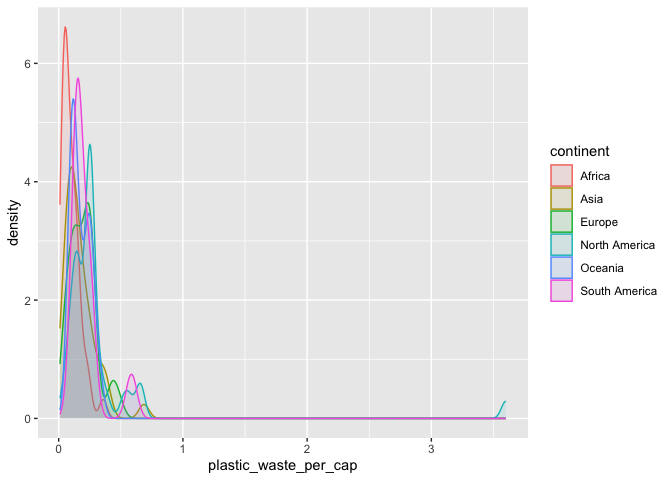
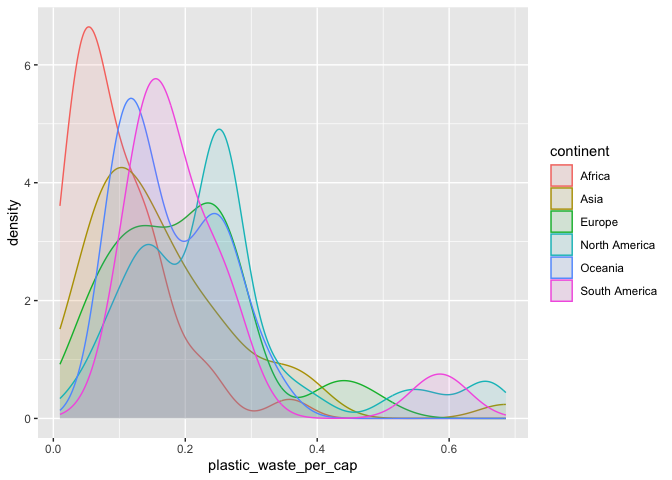
Redid up through Q2
took out outlier for North America.

diff --git a/lab-02.md b/lab-02.md
@@ -23,31 +23,19 @@ capita faceted by continent.
 Second plot is the same data as a density plot.
 
 ``` r
-ggplot(data = plastic_waste, aes(x = plastic_waste_per_cap)) +
+true_plastic <- plastic_waste %>%
+  filter(plastic_waste_per_cap < 3)
+
+ggplot(data = true_plastic, aes(x = plastic_waste_per_cap)) +
   #To make them one graph by color, add in fill = continent after plastice_waste_per_cap
   geom_histogram(binwidth = 0.2) + facet_wrap(~continent)
 ```
 
-    ## Warning: Removed 51 rows containing non-finite outside the scale range
-    ## (`stat_bin()`).
-
 ![](lab-02_files/figure-gfm/plastic-waste-continent-1.png)<!-- -->
 
 ``` r
-plastic_waste %>%
-  filter(plastic_waste_per_cap > 3.5)
-```
-
-    ##   code              entity     continent year gdp_per_cap plastic_waste_per_cap
-    ## 1  TTO Trinidad and Tobago North America 2010    31260.91                   3.6
-    ##   mismanaged_plastic_waste_per_cap mismanaged_plastic_waste coastal_pop
-    ## 1                             0.19                    94066     1358433
-    ##   total_pop
-    ## 1   1341465
-
-``` r
 ggplot(
-  data = plastic_waste,
+  data = true_plastic,
   mapping = aes(
     x = plastic_waste_per_cap,
     color = continent,
@@ -56,9 +44,6 @@ ggplot(
 ) +
   geom_density(alpha = 0.7)
 ```
-
-    ## Warning: Removed 51 rows containing non-finite outside the scale range
-    ## (`stat_density()`).
 
 ![](lab-02_files/figure-gfm/plastic-waste-continent-2.png)<!-- --> What
 I can tell is that they all look pretty similar in terms of plastic
@@ -69,7 +54,7 @@ graph all look the same.
 
 ``` r
 ggplot(
-  data = plastic_waste,
+  data = true_plastic,
   mapping = aes(
     x = plastic_waste_per_cap,
     color = continent,
@@ -79,15 +64,12 @@ ggplot(
   geom_density(alpha = 0.1)
 ```
 
-    ## Warning: Removed 51 rows containing non-finite outside the scale range
-    ## (`stat_density()`).
-
 ![](lab-02_files/figure-gfm/plastic-waste-density-1.png)<!-- -->
 
 ``` r
 #plot side by side
 ggplot(
-  data = plastic_waste,
+  data = true_plastic,
   mapping = aes(
     x = continent,
     y = plastic_waste_per_cap
@@ -95,9 +77,6 @@ ggplot(
 ) +
   geom_boxplot()
 ```
-
-    ## Warning: Removed 51 rows containing non-finite outside the scale range
-    ## (`stat_boxplot()`).
 
 ![](lab-02_files/figure-gfm/plastic-waste-density-2.png)<!-- -->
 
